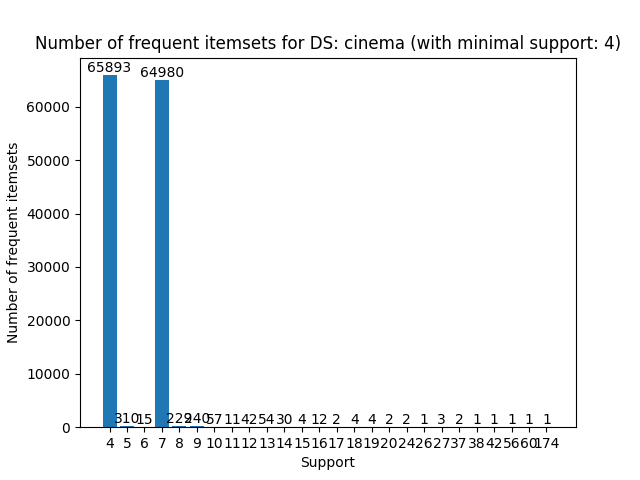
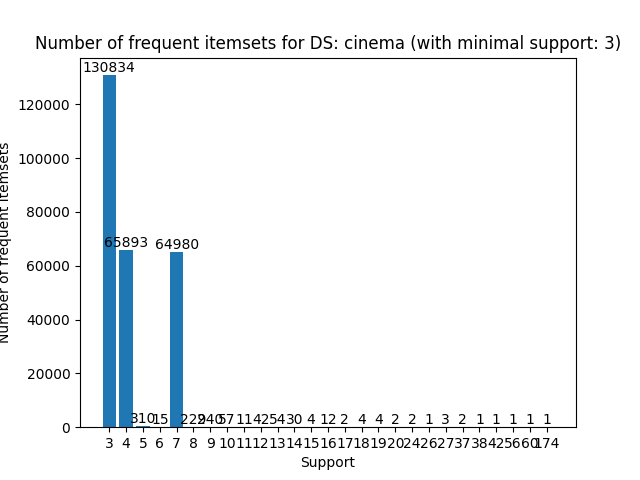
Change reading dataset to use bitarrays

diff --git a/declat/bit_declat.py b/declat/bit_declat.py
@@ -1,15 +1,20 @@
-from readDataset import DataSet
+from .readDataset import DataSet
 from bitarray import bitarray
 
 
 class FrequentSet:
-    def __init__(self, items: frozenset, diff_set, support):
+    def __init__(self, items: bitarray, diff_set, support, decode):
         self.support = support
         self.items = items
         self.diff_set = diff_set
+        self.decode_dict = decode
 
     def __str__(self):
-        items = ' '.join(self.items)
+        items = ""
+        for i in range(len(self.items)):
+            if self.items[i]:
+                items += self.decode_dict[i]
+                items += ' '
         return items + " | " + str(self.support)
 
     def __eq__(self, other):
@@ -19,7 +24,7 @@ class FrequentSet:
         return self.items == other.items
 
     def __hash__(self):
-        return hash(self.items)
+        return hash(self.items.tobytes())
 
 
 class BitDECLATRunner:
@@ -27,7 +32,7 @@ class BitDECLATRunner:
     def __init__(self, dataset: DataSet, minimal_support: int):
         self.dataset = dataset
         self.minimal_support = minimal_support
-        self.elements_dict = dict()
+        self.elements_diff_set_dict = dict()
 
     def run(self):
         self._prepare_dict()
@@ -36,16 +41,17 @@ class BitDECLATRunner:
 
     def _prepare_dict(self):
         for e in self.dataset.elements:
-            self.elements_dict[e] = self._calculate_bit_diff_set({e})
+            self.elements_diff_set_dict[e] = self._calculate_bit_diff_set(self.dataset.encode_dict[e])
 
-    def _calculate_bit_diff_set(self, rule: set):
+    def _calculate_bit_diff_set(self, bit_num):
         tweets_amount = len(self.dataset.transactions)
-        bit_diff_set = tweets_amount * bitarray('0')
+        bit_diff_set = tweets_amount * bitarray('1')
         transactions = self.dataset.transactions
 
         for transaction_id in transactions:
-            if len(transactions[transaction_id].intersection(rule)) != len(rule):
-                bit_diff_set[transaction_id] = True
+            transaction = transactions[transaction_id]
+            if transaction[bit_num]:
+                bit_diff_set[transaction_id] = False
 
         return bit_diff_set
 
@@ -57,12 +63,14 @@ class BitDECLATRunner:
         for e in elements:
             support = transactions_amount - self._count_elements_in_array_by_key(e)
             if support >= self.minimal_support:
-                frequent_items.add(FrequentSet(frozenset({e}), self.elements_dict[e], support))
+                encoded_element = len(self.dataset.elements) * bitarray('0')
+                encoded_element[self.dataset.encode_dict[e]] = True
+                frequent_items.add(FrequentSet(encoded_element, self.elements_diff_set_dict[e], support, self.dataset.decode_dict))
 
         return frequent_items
 
     def _count_elements_in_array_by_key(self, key):
-        bit_arr = self.elements_dict[key]
+        bit_arr = self.elements_diff_set_dict[key]
         sum_of_bits = 0
         for bit in bit_arr:
             sum_of_bits += int(bit)
@@ -73,12 +81,14 @@ class BitDECLATRunner:
 
         for r in previous_rules:
             for c in classes:
-                if not r.items.__contains__(c):
-                    new_rule = r.items.union({c})
-                    diff_set = self._calculate_diffset(r.diff_set, self.elements_dict.get(c))
+                if not r.items[c]:
+                    new_rule = bitarray.copy(r.items)
+                    new_rule[c] = True
+                    diff_set = self._calculate_diffset(r.diff_set,
+                                                       self.elements_diff_set_dict.get(self.dataset.decode_dict[c]))
                     support = len(self.dataset.transactions) - self.count_elements_in_array(diff_set)
                     if support >= self.minimal_support:
-                        new_rules.add(FrequentSet(new_rule, diff_set, support))
+                        new_rules.add(FrequentSet(new_rule, diff_set, support, self.dataset.decode_dict))
 
         if len(new_rules) != 0:
             return new_rules.union(self._do_declat(new_rules, self._find_classes(new_rules)))
@@ -90,7 +100,9 @@ class BitDECLATRunner:
         classes = set()
 
         for r in rules:
-            classes.update(r.items)
+            for i in range(len(r.items)):
+                if r.items[i]:
+                    classes.add(i)
 
         return classes
 

diff --git a/declat/readDataset.py b/declat/readDataset.py
@@ -1,22 +1,35 @@
 import pandas as pd
+from bitarray import bitarray
 
 
 class DataSet:
 
-    def __init__(self, elements: list, transactions: dict):
+    def __init__(self, elements: list, transactions: dict, encode: dict, decode: dict):
         self.elements = elements
         self.transactions = transactions
+        self.encode_dict = encode
+        self.decode_dict = decode
 
 
 def read_data_set(path):
     data = pd.read_csv(path)
     elements = data['tag'].unique()
+    el_num = len(elements)
+
+    elem_dict = dict()
+    decode_dict = dict()
+    for i in range(el_num):
+        elem_dict[elements[i]] = i
+        decode_dict[i] = elements[i]
+
     transactions_ids = data['tweet_id'].unique()
     transactions = dict()
 
     for transaction_id in transactions_ids:
-        transaction = set()
-        transaction = transaction.union(data.loc[data['tweet_id'] == transaction_id]['tag'].unique())
-        transactions[transaction_id] = transaction
+        transaction_array = el_num * bitarray('0')
+        elements_in_transaction = data.loc[data['tweet_id'] == transaction_id]['tag'].unique()
+        for e in elements_in_transaction:
+            transaction_array[elem_dict.get(e)] = True
+        transactions[transaction_id] = transaction_array
 
-    return DataSet(elements, transactions)
+    return DataSet(elements, transactions, elem_dict, decode_dict)

diff --git a/main.py b/main.py
@@ -10,10 +10,10 @@ import argparse
 
 parser = argparse.ArgumentParser()
 parser.add_argument('--draw_time_charts_mode', type=bool, default=False)
-parser.add_argument('--name', type=str, default="movies")
-parser.add_argument('--support', type=int, default=2)
+parser.add_argument('--name', type=str, default="cinema")
+parser.add_argument('--support', type=int, default=3)
 parser.add_argument('--show_results', type=bool, default=False)
-parser.add_argument('--lattice', type=bool, default=True)
+parser.add_argument('--lattice', type=bool, default=False)
 parser.add_argument('--supp_chart', type=bool, default=True)
 
 args = parser.parse_args()
